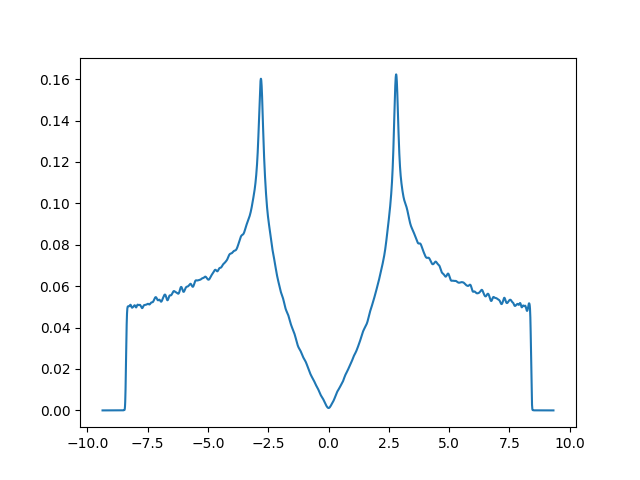
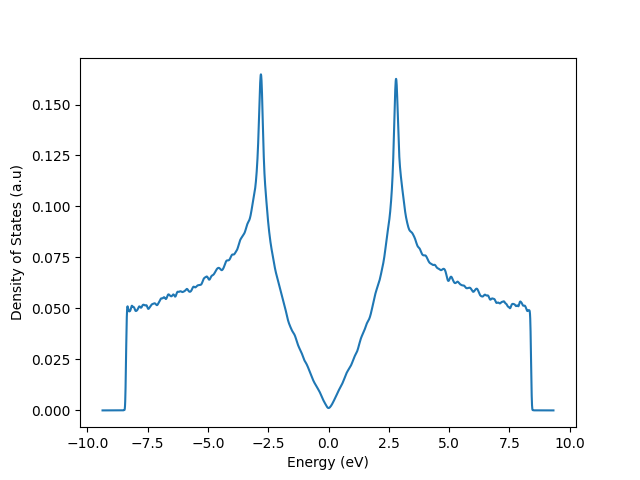
fixing documentation/index.md - first example

diff --git a/docs/documentation/index.md b/docs/documentation/index.md
@@ -1,15 +1,15 @@
-This tutorial covers the basic parts to start using KITE.
-You will learn about the different steps in the KITE-workflow and how to tweak the different parameters.
+This tutorial covers the basic aspects that are necessary to start using KITE.
+You will learn about the different steps in KITE's workflow and how to tweak the different parameters.
 
 The tutorial is structured as follows:
 
 1. Learn about KITE's workflow
-2. Make a tight-binding model using the [`#!python pb.Lattice`][lattice]
-3. Specify the settings for a calculation
-4. Calculate for different target-functions
+2. Build a tight-binding model using [`#!python pb.Lattice`][lattice]
+3. How to specify the settings for a calculation
+4. How to calculate the different target-functions
 5. Post-process the results with [*KITE-tools*][kitetools]
-6. Add disorder or fields to the tight-binding model
-7. Edit the [HDF5]-file
+6. Adding disorder or magnetic field to the tight-binding model
+7. How to edit the [HDF5]-file
 8. Optimize the settings for various calculations
 
 !!! Info "More examples"
@@ -20,8 +20,8 @@ The tutorial is structured as follows:
 
 !!! Example "First calculation with KITE"
     
-    Let's do a simple first calculation with KITE.
-    *(Don't worry about the details, these will be covered later.)*
+    Let us do a simple first calculation with KITE.
+    *(Do not worry about the details, these will be covered later.)*
 
     !!! Tip
     
@@ -34,9 +34,9 @@ The tutorial is structured as follows:
     from pybinding.repository import graphene
     from os import system as terminal
 
-    conf = kite.Configuration([64, 64], [512, 512], ["periodic", "periodic"])
+    conf = kite.Configuration(divisions=[4, 4], length=[512, 512], boundaries=["periodic", "periodic"])
     calc = kite.Calculation(conf)
-    calc.dos(4000, 512, 2, 1)
+    calc.dos(num_points=4000, num_moments=512, num_random=2, num_disorder=1)
     kite.config_system(graphene.monolayer(), conf, calc, filename="first_calculation.h5")
 
     terminal("build/KITEx first_calculation.h5")
@@ -44,13 +44,15 @@ The tutorial is structured as follows:
 
     dos = np.loadtxt("dos.dat")
     plt.plot(dos[:, 0], dos[:, 1])
+    plt.xlabel("Energy (eV)")
+    plt.ylabel("Density of States (a.u)")
     plt.show()
     ```
   
     <div>
       <figure>
         <img src="../assets/images/getting_started/first_calculation.png" width="300" />
-        <figcaption>The result from your first KITE-calculation: the DOS for graphene.</figcaption>
+        <figcaption>The result from your first KITE calculation: the density of states for graphene.</figcaption>
       </figure>
     </div>
 
@@ -58,8 +60,8 @@ The tutorial is structured as follows:
 [HDF5]: https://www.hdfgroup.org
 [pybinding]: https://docs.pybinding.site/en/stable
 [lattice]: https://docs.pybinding.site/en/stable/_api/pybinding.Lattice.html
-[documentation]: ../background/index.md
-[tightbinding]: ../background/tight_binding.md
+[documentation]: ../documentation/index.md
+[tightbinding]: ../documentation/tight_binding.md
 
 [lattice-tutorial]: tb_model.md
 

diff --git a/docs/installation.md b/docs/installation.md
@@ -216,13 +216,13 @@ It creates a file named *graphene_lattice-output.h5* that is used as an input fo
 ```
 
 This first example calculates the density of states (DOS) of pure graphene.
-To obtain the file with the DOS-data, you need to [post-process][kitetools] the output:
+To obtain the file with the DOS-data, you need to [post-process][kitetools] the output with a tool 
 
 ``` bash
 ../tools/build/KITE-tools graphene_lattice-output.h5
 ```
 
-For more details refer to the [Tutorial][tutorial].
+that generates the appropriata data file. For more details refer to the [tutorial][tutorial].
 
 !!! info
 
